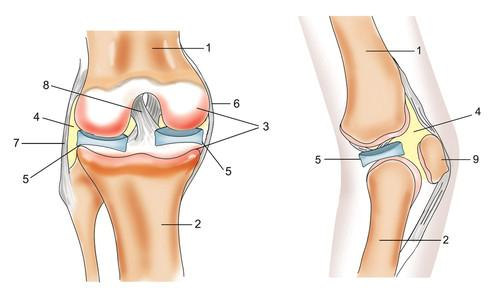
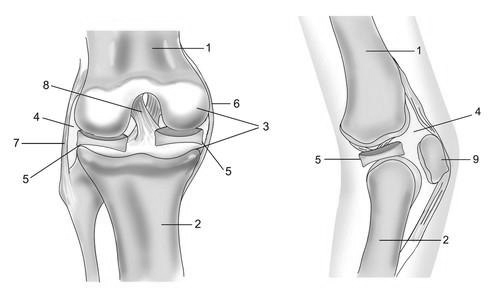
Финальная версия как она ушла в печать

Changed region(s): [[0.12, 0.0891, 0.42, 0.9505], [0.66, 0.0297, 0.9, 0.9208]]

diff --git a/referat.tex b/referat.tex
@@ -365,12 +365,12 @@ k \le \sigma \le k+1.
 \centering
 \begin{subfigure}[b]{0.45\textwidth}
 \centering
-\includegraphics[width=\textwidth]{png/pkm-experiment/wing-only/scene.png}
+\includegraphics[width=\textwidth]{png/pkm-experiment/wing-only/scene-bw.png}
 \caption{Одиночный элемент обшивки.}
 \end{subfigure}
 \begin{subfigure}[b]{0.45\textwidth}
 \centering
-\includegraphics[width=\textwidth]{png/pkm-experiment/wing-stringer/scene.png}
+\includegraphics[width=\textwidth]{png/pkm-experiment/wing-stringer/scene-bw.png}
 \caption{Элемент обшивки со стрингером.}
 \end{subfigure}
 \caption{Вид расчётной области в задаче о низкоскоростном динамическом нагружении элемента композитной обшивки и силового кессона крыла самолёта.}
@@ -383,15 +383,15 @@ k \le \sigma \le k+1.
 \centering
 \begin{subfigure}[b]{0.3\textwidth}
 \center
-\includegraphics[width=\textwidth]{png/pkm-experiment/wing-only/sum.png}
+\includegraphics[width=\textwidth]{png/pkm-experiment/wing-only/sum-bw.png}
 \end{subfigure}
 \begin{subfigure}[b]{0.3\textwidth}
 \center
-\includegraphics[width=\textwidth]{png/pkm-experiment/wing-stringer/sum.png}
+\includegraphics[width=\textwidth]{png/pkm-experiment/wing-stringer/sum-bw.png}
 \end{subfigure}
 \begin{subfigure}[b]{0.3\textwidth}
 \center
-\includegraphics[width=\textwidth]{png/pkm-experiment/wing-stringer-non-center/sum.png}
+\includegraphics[width=\textwidth]{png/pkm-experiment/wing-stringer-non-center/sum-bw.png}
 \end{subfigure}
 \caption{Потенциальные области разрушений по критерию интегрального воздействия.}
 \label{pic:pkm_experiment_compare_integral}
@@ -401,15 +401,15 @@ k \le \sigma \le k+1.
 \centering
 \begin{subfigure}[b]{0.3\textwidth}
 \center
-\includegraphics[width=\textwidth]{png/pkm-experiment/wing-only/tension-2.png}
+\includegraphics[width=\textwidth]{png/pkm-experiment/wing-only/tension-2-bw.png}
 \end{subfigure}
 \begin{subfigure}[b]{0.3\textwidth}
 \center
-\includegraphics[width=\textwidth]{png/pkm-experiment/wing-stringer/tension-2.png}
+\includegraphics[width=\textwidth]{png/pkm-experiment/wing-stringer/tension-2-bw.png}
 \end{subfigure}
 \begin{subfigure}[b]{0.3\textwidth}
 \center
-\includegraphics[width=\textwidth]{png/pkm-experiment/wing-stringer-non-center/tension-2.png}
+\includegraphics[width=\textwidth]{png/pkm-experiment/wing-stringer-non-center/tension-2-bw.png}
 \end{subfigure}
 \caption{Потенциальные области разрушений по критерию растягивающих напряжений.}
 \label{pic:pkm_experiment_compare_tension}
@@ -430,12 +430,12 @@ k \le \sigma \le k+1.
 \centering
 \begin{subfigure}[b]{0.4\textwidth}
 \centering
-\includegraphics[width=\textwidth]{png/cranium/knee-res-2.png}
+\includegraphics[width=\textwidth]{png/cranium/knee-res-2-bw.png}
 \caption{Начальный момент удара}
 \end{subfigure}
 \begin{subfigure}[b]{0.4\textwidth}
 \centering
-\includegraphics[width=\textwidth]{png/cranium/knee-res-3.png}
+\includegraphics[width=\textwidth]{png/cranium/knee-res-3-bw.png}
 \caption{Завершающая стадия удара}
 \end{subfigure}
 \caption{Задача о нагружении коленного сустава. Распределение напряжений сжатия / растяжения. Скорость удара 9 м/с.}
@@ -446,7 +446,7 @@ k \le \sigma \le k+1.
 \centering
 \begin{subfigure}[b]{0.6\textwidth}
 \centering
-\includegraphics[width=\textwidth]{png/cranium/chest-res-06.png}
+\includegraphics[width=\textwidth]{png/cranium/chest-res-06-bw.png}
 \end{subfigure}
 %\begin{subfigure}[b]{0.9\textwidth}
 %\centering
@@ -501,7 +501,7 @@ k \le \sigma \le k+1.
 
 \item Выполнен анализ причин внутреннего повреждения элемента композитной обшивки и силового кессона крыла самолета при низкоскоростном ударе. Получены области повреждения конструкции, вызванные волновыми процессами в ходе соударения.
 
-\item Получено численное решение задач о черепно-мозговой травме, о динамическом нагружении коленного сустава и об ударе по торсу в защитной конструкции.
+\item Разработанные математические модели и численный метод применены для решения задач о черепно-мозговой травме, о динамическом нагружении коленного сустава и об ударе по торсу в защитной конструкции. Получены области потенциальных повреждений тканей организма.
 
 \end{enumerate}
 

diff --git a/conclusion.tex b/conclusion.tex
@@ -17,6 +17,6 @@
 
 \item Выполнено численное моделирование натурного эксперимента по динамическому нагружению элемента композитной обшивки и силового кессона крыла самолёта. Проведены расчеты для двух постановок эксперимента -- удар по отдельному элементу обшивки и удар по элементу обшивки со стрингером. Для задачи со стрингером рассмотрены постановки с центральным и нецентральным ударом. Проведен анализ причин разрушения композиционных авиационных материалов. Для всех постановок получены области концентрации напряжений, вызванные волновыми процессами в ходе соударения. Определены зоны потенциальных повреждений конструкции, обусловленные разными механизмами разрушения материала. Для элемента обшивки без стрингера размер разрушенной области составляет 50-60 мм, для элемента обшивки со стрингером 25-30 мм при центральном ударе и 20-25 мм при нецентральном ударе. Получено, что наличие стрингера существенно разгружает элемент обшивки при динамическом воздействии и уменьшает размер потенциально повреждённых областей. Данный результат важен, так как при действии статической нагрузки наличие стрингера напротив вызывает концентрацию напряжений и приводит к разрушению при меньшей силе воздействия.
 
-\item Дополнительно разработанные математические модели и численный метод были применены для решения ряда задач биомеханики. Получены области потенциальных повреждений тканей организма человека в задачах о черепно-мозговой травме, о динамическом нагружении коленного сустава и об ударе по торсу в защитной конструкции.
+\item Разработанные математические модели и численный метод применены для решения ряда задач биомеханики. Получены области потенциальных повреждений тканей организма человека в задачах о черепно-мозговой травме, о динамическом нагружении коленного сустава и об ударе по торсу в защитной конструкции.
 
 \end{enumerate}

diff --git a/referat-meta-first.tex b/referat-meta-first.tex
@@ -40,7 +40,7 @@
 \vspace{6em}
 
 \noindent
-Защита состоится <<\underline{\hspace{10 mm}}>>\ \underline{\hspace{50 mm}}\ 2012~г. в \underline{\hspace{20 mm}} часов на заседании
+Защита состоится 15 ноября 2012~г. в $9^{00}$ часов на заседании
 диссертационного совета Д 212.156.05 при Московском физико-
 техническом институте (государственном университете) по адресу:
 141700, Московская обл., г. Долгопрудный, Институтский пер., д. 9, ауд.
@@ -54,7 +54,7 @@
 \vspace{2em}
 
 \noindent
-Автореферат разослан <<\underline{\hspace{10 mm}}>>\ \underline{\hspace{50 mm}}\ 2012~г.
+Автореферат разослан 4 октября 2012~г.
 
 \vspace{\fill}
 

diff --git a/referat-meta-last.tex b/referat-meta-last.tex
@@ -24,8 +24,8 @@
 
 \begin{center}
 \begin{singlespace}
-Подписано в печать\ \underline{\hspace{30 mm}}. Формат 60 x 84 $^1/_{16}$. Усл. печ. л. 1,0.\\
-Тираж 70 экз. Заказ No\ \underline{\hspace{10 mm}}.\\
+Подписано в печать 28.09.2012. Формат 60 x 84 $^1/_{16}$. Усл. печ. л. 1,0.\\
+Тираж 80 экз. Заказ No 344.\\
 Федеральное государственное бюджетное образовательное учреждение высшего профессионального образования «Московский физико-технический
 институт (государственный университет)»\\
 Отдел оперативной полиграфии «Физтех-полиграф»\\

diff --git a/title.tex b/title.tex
@@ -7,10 +7,11 @@
 (государственный университет)\\
 \end{center}
 
-\vspace{0.5em}
+\vspace{0.3em}
 
 \begin{flushright}
-На правах рукописи
+На правах рукописи \\
+УДК 519.63
 \end{flushright}
 
 \vspace{1em}
